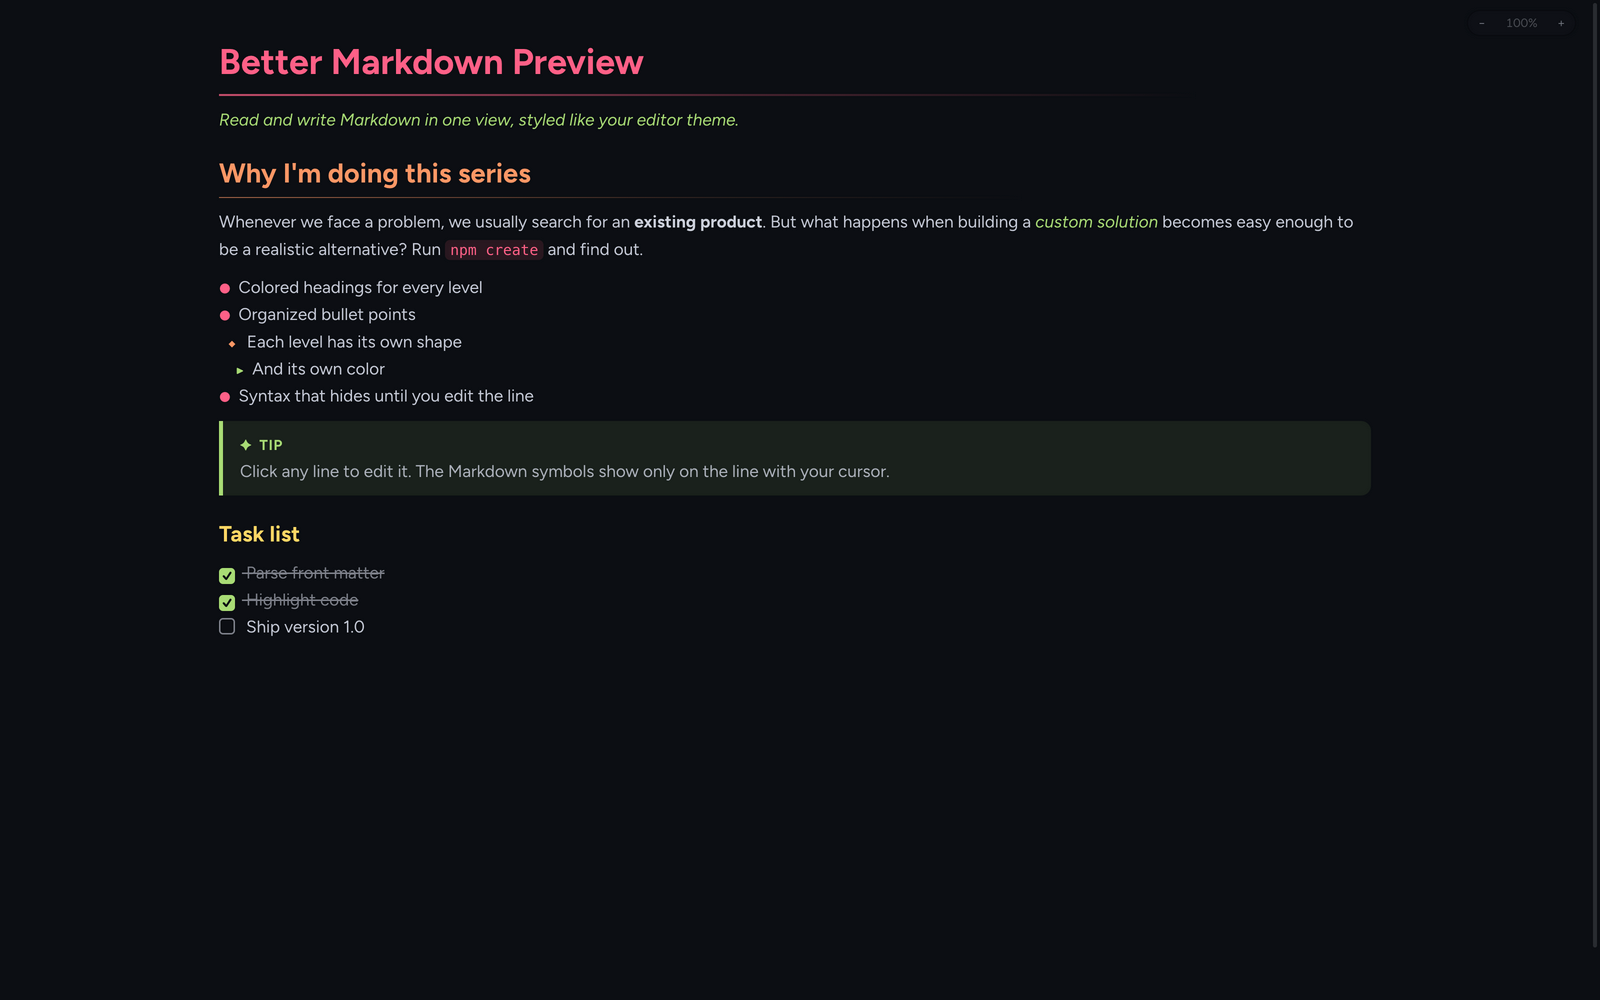
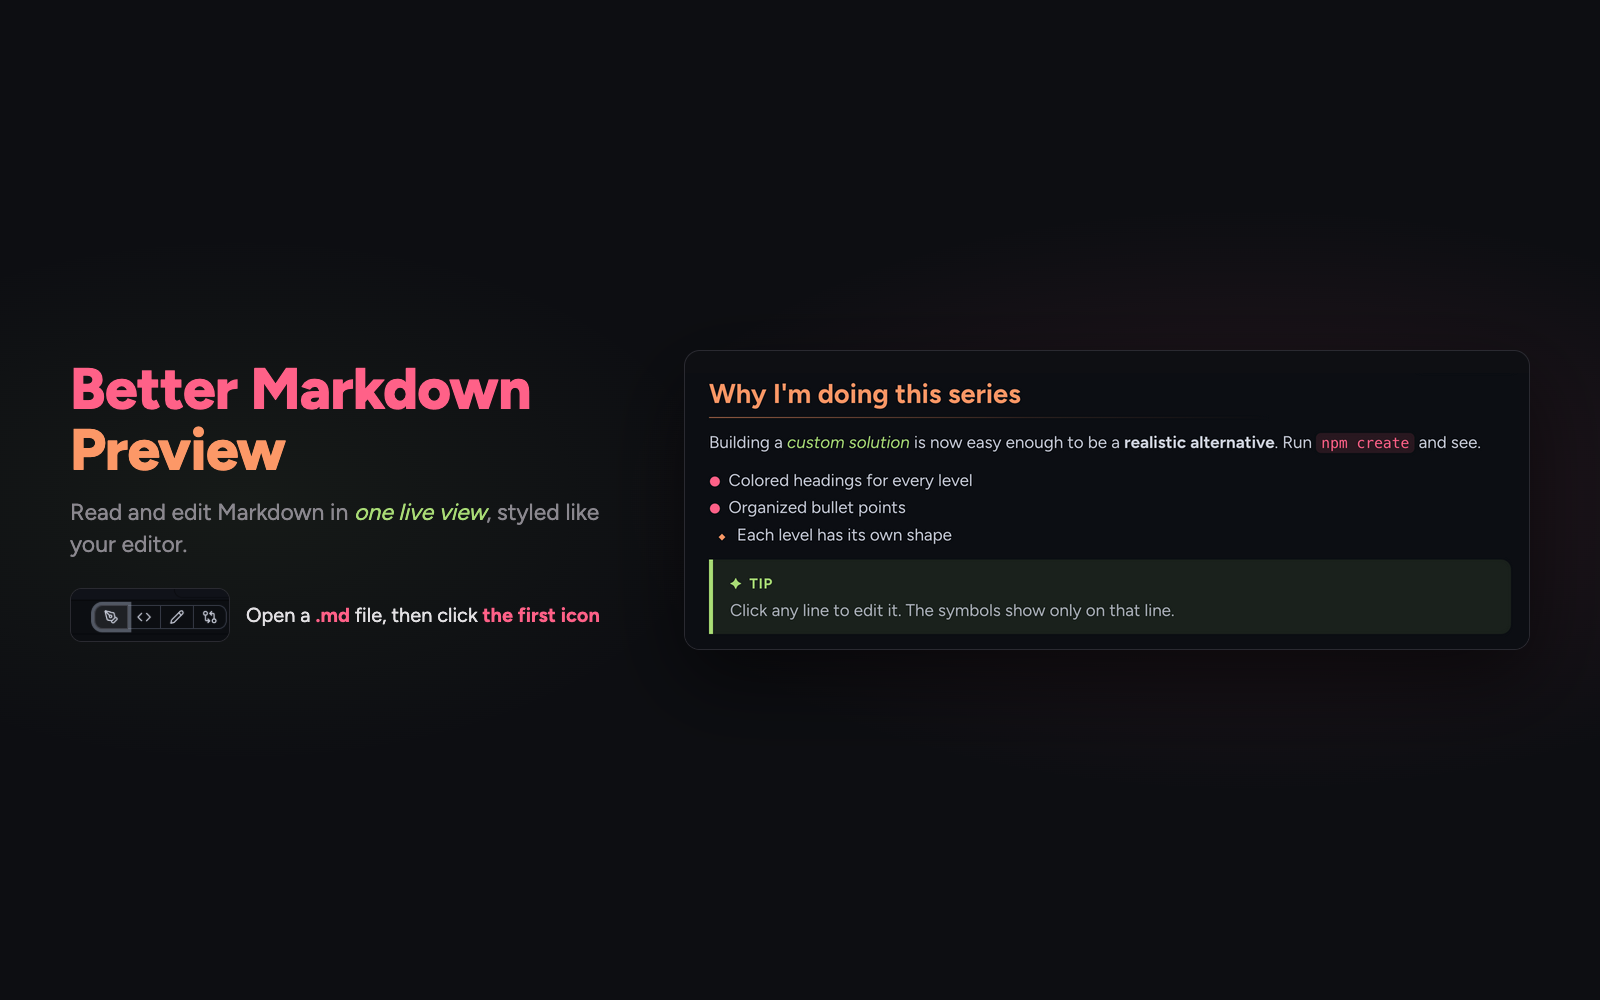
Release Better Markdown Preview 1.0.1

diff --git a/scripts/cover.html b/scripts/cover.html
@@ -1,0 +1,117 @@
+<!doctype html>
+<html>
+<head>
+<meta charset="utf-8">
+<style>
+  @font-face {
+    font-family: 'Figtree';
+    src: url('../fonts/figtree-latin-wght-normal.woff2') format('woff2');
+    font-weight: 300 900;
+  }
+  :root {
+    --bg: #0d0e12;
+    --fg: #e3e1e4;
+    --muted: #8b888f;
+    --pink: #ff6188;
+    --orange: #fc9867;
+    --green: #a9dc76;
+    --border: #2a2a31;
+  }
+  * { box-sizing: border-box; margin: 0; }
+  html, body { width: 1600px; height: 1000px; overflow: hidden; }
+  body {
+    background:
+      radial-gradient(900px 420px at 78% 50%, rgba(255, 97, 136, 0.10), transparent 70%),
+      radial-gradient(700px 380px at 15% 50%, rgba(169, 220, 118, 0.06), transparent 70%),
+      var(--bg);
+    color: var(--fg);
+    font-family: 'Figtree', sans-serif;
+    display: grid;
+    place-items: center;
+  }
+  .band {
+    width: 1460px;
+    height: 360px;
+    display: grid;
+    grid-template-columns: 560px 1fr;
+    gap: 40px;
+    align-items: center;
+  }
+  h1 {
+    font-size: 58px;
+    line-height: 1.05;
+    font-weight: 800;
+    letter-spacing: -0.01em;
+    color: var(--pink);
+  }
+  h1 span { color: var(--orange); }
+  .tagline {
+    margin-top: 16px;
+    font-size: 23px;
+    line-height: 1.4;
+    color: var(--muted);
+  }
+  .tagline em { color: var(--green); font-style: italic; }
+  .open {
+    margin-top: 28px;
+    display: flex;
+    align-items: center;
+    gap: 16px;
+    font-size: 20px;
+    color: var(--fg);
+  }
+  .open img {
+    height: 54px;
+    border-radius: 12px;
+    border: 1px solid var(--border);
+  }
+  .open b { color: var(--pink); }
+  .toggle {
+    width: 160px;
+    height: 54px;
+    overflow: hidden;
+    border-radius: 12px;
+    border: 1px solid var(--border);
+    flex: none;
+  }
+  .toggle img {
+    height: 54px;
+    border: 0;
+    border-radius: 0;
+  }
+  .panel {
+    width: 846px;
+    justify-self: end;
+    height: 300px;
+    padding-top: 22px;
+    overflow: hidden;
+    border: 1px solid var(--border);
+    border-radius: 16px;
+    background: #0e0f13;
+    box-shadow: 0 30px 80px rgba(0, 0, 0, 0.55);
+    position: relative;
+  }
+  .panel img {
+    display: block;
+    margin-top: -36px;
+    clip-path: inset(36px 0 0 0);
+    width: 860px;
+  }
+</style>
+</head>
+<body>
+  <div class="band">
+    <div>
+      <h1>Better Markdown<br><span>Preview</span></h1>
+      <p class="tagline">Read and edit Markdown in <em>one live view</em>, styled like your editor.</p>
+      <div class="open">
+        <span class="toggle"><img src="../images/view-toggle.png" alt=""></span>
+        <span>Open a <b>.md</b> file, then click <b>the first icon</b></span>
+      </div>
+    </div>
+    <div class="panel">
+      <img src="../Test/cover-panel.png" alt="">
+    </div>
+  </div>
+</body>
+</html>

diff --git a/.claude/rules/release.md b/.claude/rules/release.md
@@ -9,15 +9,16 @@ paths:
 
 1. Set the new `version` in `orca-plugin.json` (semver: patch for fixes, minor for new features).
 2. Add a "What's new in X.Y.Z" section to `README.md`.
-3. If the view looks different, regenerate the images from the files in `Test/`:
+3. If the view looks different, regenerate the images from `samples/`. Set the zoom to 100% first.
 
    ```sh
-   for f in cover tables diagram; do
-     orca plugin shot local.better-markdown-preview --editor "$PWD/Test/$f.md" --width 1600 --height 1000 --out "images/$f.png"
+   for f in tables diagram; do
+     orca plugin shot local.better-markdown-preview --editor "$PWD/samples/$f.md" --width 1600 --height 1000 --out "images/$f.png"
    done
+   orca plugin shot local.better-markdown-preview --editor "$PWD/samples/cover-panel.md" --width 860 --height 420 --out Test/cover-panel.png
    ```
 
-   The cover must be at least 800×500 and at most 1 MB. Each screenshot must be at least 1280×800 and at most 1.5 MB. Set the zoom to 100% first.
+   Then open `scripts/cover.html` in Chrome at a 1600×1000 viewport with a device scale of 1, and save a screenshot as `images/cover.png`. The plugin page crops the cover to a wide strip of about y 315 to 685, so every key part of the cover stays inside that strip. The cover must be at least 800×500 and at most 1 MB. Each screenshot must be at least 1280×800 and at most 1.5 MB.
 4. Run the checks in `CLAUDE.md`.
 5. Commit on `release/vX.Y.Z`.
 6. Hand the user these commands:

diff --git a/README.md b/README.md
@@ -55,6 +55,11 @@ Orca opens Markdown files in Source first, and a plugin cannot change that. Clic
 - **No raw HTML.** HTML in the Markdown shows as text.
 - **Agent edits.** When an agent writes the file while you type, the preview keeps both changes if they touch different lines. If both change the same lines, the agent's version wins.
 
+## What's new in 1.0.1
+
+- The plugin page now says how to open the preview: click the first icon in the view toggle.
+- A new cover that fits the wide crop on the plugin page.
+
 ## What's new in 1.0.0
 
 - First release.
@@ -64,7 +69,7 @@ Orca opens Markdown files in Source first, and a plugin cannot change that. Clic
 ```sh
 orca plugin check .
 orca plugin dev load "$PWD"
-orca plugin shot local.better-markdown-preview --editor Test/cover.md --width 1600 --height 1000
+orca plugin shot local.better-markdown-preview --editor "$PWD/samples/tables.md" --width 1600 --height 1000
 ```
 
 `editor/main.ts` starts the editor, keeps the file in sync with Orca and owns the zoom control. `editor/live.ts` decides which parts of the document show rendered and which show as Markdown. `editor/render.ts` draws tables, code blocks, front matter and diagrams. `editor/merge.ts` combines your edits with outside changes. `editor/reader.css` holds every color and size.

diff --git a/CLAUDE.md b/CLAUDE.md
@@ -21,7 +21,9 @@ orca plugin list
 
 A change is done when both checks pass and `orca plugin list` shows `local.better-markdown-preview … idle`. `orca plugin dev load "$PWD"` makes this folder a development folder; a new id or new access needs `--approve` with the fingerprint it prints. Look at the result with `orca plugin shot local.better-markdown-preview --editor <file.md> --width 1600 --height 1000 --out <png>`, then read the PNG. A shot shows the editor without focus, so every line is rendered; typing, clicks and the cursor need the user, because `shot --act` runs only while Orca's window is hidden.
 
-`Test/` holds sample files for shots. It is in `.gitignore`.
+`samples/` holds the Markdown files the release images are shot from. `Test/` holds generated or scratch files and is in `.gitignore`.
+
+Orca builds the plugin page from `orca-plugin.json` and `images/`, not from `README.md`. A change a user must see on that page belongs in the manifest `description` or the images.
 
 ## Rules
 

diff --git a/samples/tables.md b/samples/tables.md
@@ -1,0 +1,25 @@
+## Comparing the options
+
+| Existing option | What I wanted to evaluate | Cost |
+| --- | --- | ---: |
+| Gmail's built-in features | Whether it already covers my use case | Free |
+| Third-party email tools | Feature fit, pricing and subscription | $12/mo |
+| Automation platforms | Setup effort, flexibility and ongoing costs | $20/mo |
+| Building my own | Effort, security and maintenance | Time |
+
+### The core function
+
+```typescript
+interface Email {
+  id: string
+  subject: string
+  priority: 'high' | 'normal'
+}
+
+export function triage(inbox: Email[]): Email[] {
+  return inbox.filter((mail) => mail.priority === 'high')
+}
+```
+
+> [!WARNING]
+> Images from web URLs do not load, because the plugin frame has no network.

diff --git a/samples/diagram.md b/samples/diagram.md
@@ -1,0 +1,30 @@
+---
+title: Gmail assistant
+week: 01
+tags:
+  - build-my-own
+  - ai
+status: draft
+---
+
+## How it works
+
+```mermaid
+flowchart LR
+  A[Inbox] --> B(Fetch new mail)
+  B --> C{Needs a reply?}
+  C -->|yes| D[Draft with AI]
+  C -->|no| E[Label and archive]
+  D --> F[Review and send]
+```
+
+> [!NOTE]
+> Front matter shows as a card, and Mermaid blocks draw as diagrams. Click either one to edit its source.
+
+---
+
+1. Fetch the mail
+2. Classify each thread
+   1. Urgent
+   2. Can wait
+3. Draft the replies

diff --git a/samples/cover-panel.md b/samples/cover-panel.md
@@ -1,0 +1,10 @@
+## Why I'm doing this series
+
+Building a *custom solution* is now easy enough to be a **realistic alternative**. Run `npm create` and see.
+
+- Colored headings for every level
+- Organized bullet points
+  - Each level has its own shape
+
+> [!TIP]
+> Click any line to edit it. The symbols show only on that line.
